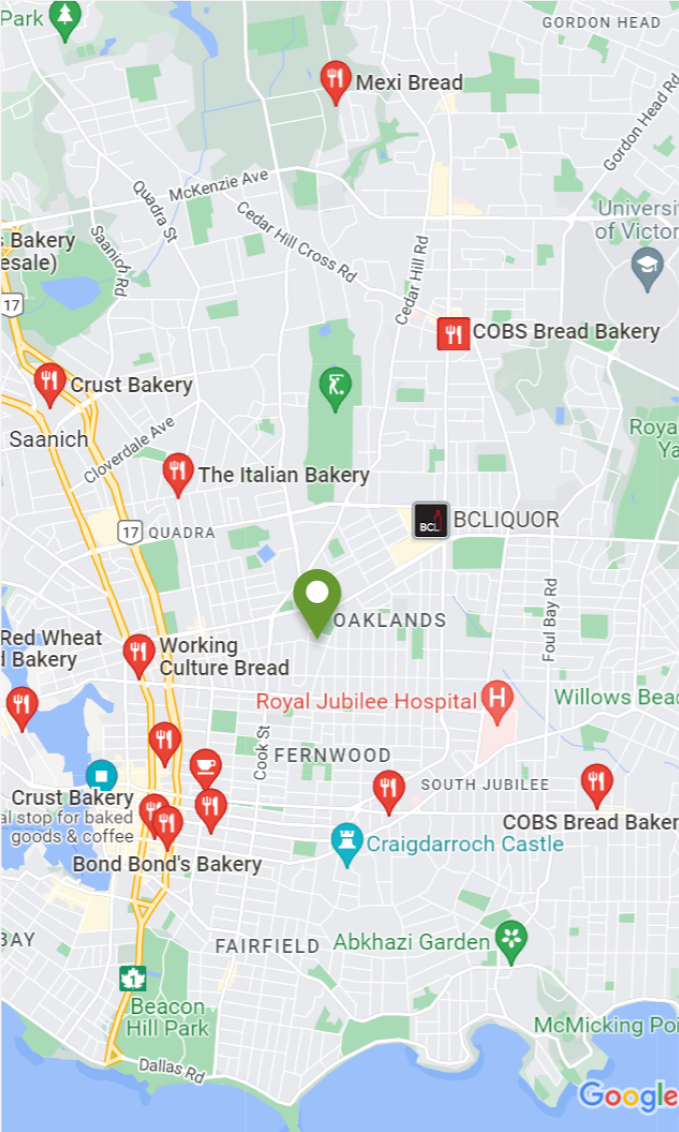
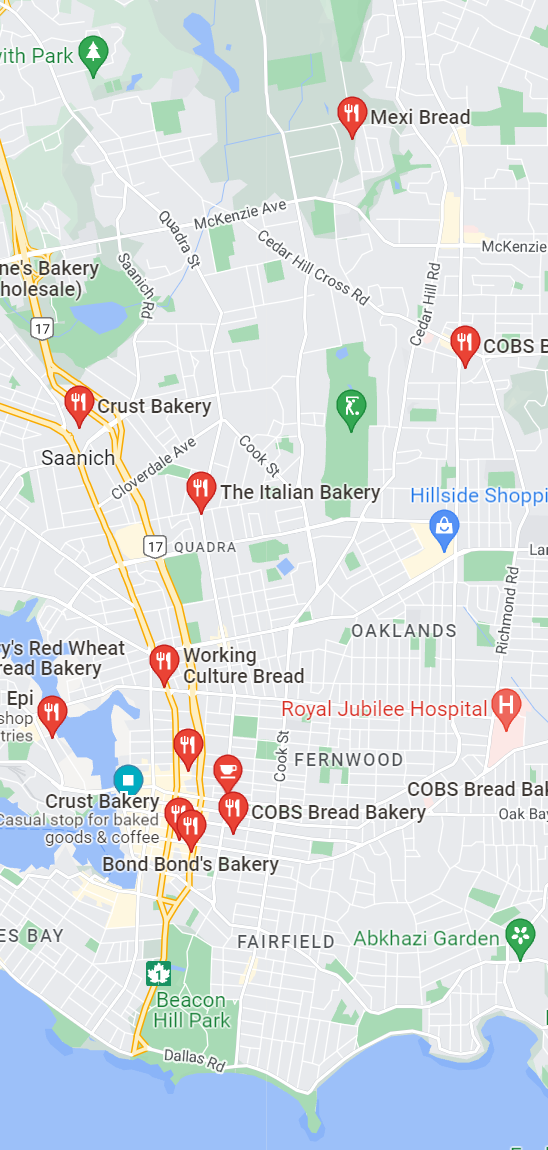
Updated map screens with new styles and pictures

diff --git a/screens/SearchedMap.js b/screens/SearchedMap.js
@@ -1,65 +1,52 @@
-import { Text, View, useWindowDimensions } from 'react-native';
-import React, { useState } from 'react';
-import InputValue from './InputValue';
+import { View, Image } from 'react-native';
+import React from 'react';
 import Button from './Button';
-import { auth } from '../Database/firebase';
 import { useNavigation } from "@react-navigation/native";
 import TopHeader from '../components/TopHeader';
-//import { style } from '../style/styles';
+import { styles } from '../style/styles';
 import { ImageBackground, StyleSheet} from "react-native";
-import image from '../assets/bread_map.png'; // Tell webpack this JS file uses this image
-
-const Background = () => (
-  <View style={styles.container}>
-    <ImageBackground source={image} resizeMode="cover" style={styles.image}/>
-  </View>
-);
-const styles = StyleSheet.create({
-  container: {
-    flex: 1,
-    justifyContent: "center"
-  },
-  image: {
-    flex: 1,
-    justifyContent: "center"
-  },
-});
+import image from '../assets/map.png'; // Tell webpack this JS file uses this image
 
 const SearchedMap = () => {
-  const {height} = useWindowDimensions();
-
-  const [username, setUsername] = useState('');
 
   const navigation = useNavigation();
 
   const filterPressed = () => {
     navigation.navigate("SearchedSearch")
   }
-  const cancelPressed = () => {
-    navigation.navigate("DefaultMap")
-  }
   const storePressed = () => {
     navigation.navigate("SearchedStorePage")
+  }
+  const cancelPressed = () => {
+    navigation.navigate("DefaultMap")
   }
 
   return (
     <View style={styles.container}>
       <TopHeader navigation={navigation} />
-      <Button
-        onPress={filterPressed}
-        buttonText="Filter"
-      />
-      <Button
-        onPress={cancelPressed}
-        buttonText="Cancel"
-        buttonType="tertiaryButton"
-      />
-      <Background navigation={navigation} />
-      <Button
-        onPress={storePressed}
-        buttonText="Select Store"
-        buttonType="tertiaryButton"
-      />
+      <View style={styles.searched_map_container}>
+        <Image
+          style={[styles.map]}
+          source = {require("../assets/bread_map.png")}
+          resizeMode="contain"
+        />
+      </View>
+      <View style={styles.searched_map_button_container}>
+          <Button
+            onPress={filterPressed}
+            buttonText="Filter"
+          />
+          <Button
+            onPress={cancelPressed}
+            buttonText="Cancel Filter"
+            buttonType="tertiaryButton"
+          />
+          <Button
+            onPress={storePressed}
+            buttonText="Select Store"
+            buttonType="tertiaryButton"
+          />
+      </View>
     </View>
   );
 };

diff --git a/screens/DefaultMap.js b/screens/DefaultMap.js
@@ -1,33 +1,11 @@
-import { View } from 'react-native';
+import { View, Image } from 'react-native';
 import React from 'react';
 import Button from './Button';
 import { useNavigation } from "@react-navigation/native";
 import TopHeader from '../components/TopHeader';
-//import { styles } from '../style/styles';
+import { styles } from '../style/styles';
 import { ImageBackground, StyleSheet} from "react-native";
 import image from '../assets/map.png'; // Tell webpack this JS file uses this image
-
-const Background = () => (
-  <View style={styles.container}>
-    <ImageBackground source={image} resizeMode="cover" style={styles.image}/>
-  </View>
-);
-
-const styles = StyleSheet.create({
-  container1: {
-    flex: 1,
-    justifyContent: "center",
-    alignItems: "center"
-  },
-  container: {
-    flex: 1,
-    justifyContent: "center",
-  },
-  image: {
-    flex: 1,
-    justifyContent: "center"
-  },
-});
 
 const DefaultMap = () => {
 
@@ -43,16 +21,24 @@ const DefaultMap = () => {
   return (
     <View style={styles.container}>
       <TopHeader navigation={navigation} />
-      <Button
-        onPress={filterPressed}
-        buttonText="Filter"
-      />
-      <Background />
-      <Button
-        onPress={storePressed}
-        buttonText="Select Store"
-        buttonType="tertiaryButton"
-      />
+      <View style={styles.map_container}>
+        <Image
+          style={[styles.map]}
+          source = {require("../assets/map.png")}
+          resizeMode="contain"
+        />
+      </View>
+      <View style={styles.map_button_container}>
+          <Button
+            onPress={filterPressed}
+            buttonText="Filter"
+          />
+          <Button
+            onPress={storePressed}
+            buttonText="Select Store"
+            buttonType="tertiaryButton"
+          />
+      </View>
     </View>
   );
 };

diff --git a/style/styles.js b/style/styles.js
@@ -74,7 +74,57 @@ export const styles = StyleSheet.create({
         //borderRadius: 20,
         //marginTop: -height*0.15,
     },
-
+    map_container: {
+        maxHeight: 250,
+        minHeight: 250,
+        marginTop: 350,
+        alignItems: "center",
+        justifyContent: "center",
+    },
+    map_button_container: {
+        alignItems: 'center',
+        justifyContent: 'center',
+        //height: 40,
+        borderColor: '#7BB055',
+        borderWidth: 1,
+        borderRadius: 5,
+        width: '100%',
+        paddingHorizontal: 10,
+        marginVertical: -15,
+        backgroundColor: 'white',
+        //borderRadius: 20,
+        //marginTop: -height*0.15,
+    },
+    searched_map_container: {
+        maxHeight: 250,
+        minHeight: 250,
+        marginTop: 375,
+        alignItems: "center",
+        justifyContent: "center",
+    },
+    searched_map_button_container: {
+        alignItems: 'center',
+        justifyContent: 'center',
+        //height: 40,
+        borderColor: '#7BB055',
+        borderWidth: 1,
+        borderRadius: 5,
+        width: '100%',
+        paddingHorizontal: 10,
+        marginVertical: -65,
+        backgroundColor: 'white',
+        //borderRadius: 20,
+        //marginTop: -height*0.15,
+    },
+    store_picture: {
+        maxHeight: 400,
+        maxWidth: '100%',
+        minHeight: 400,
+        marginTop: -130,
+        marginBottom: 50,
+        alignItems: "center",
+        justifyContent: "center",
+    },
     button_container: {
         alignItems: 'center',
         padding: 50,
